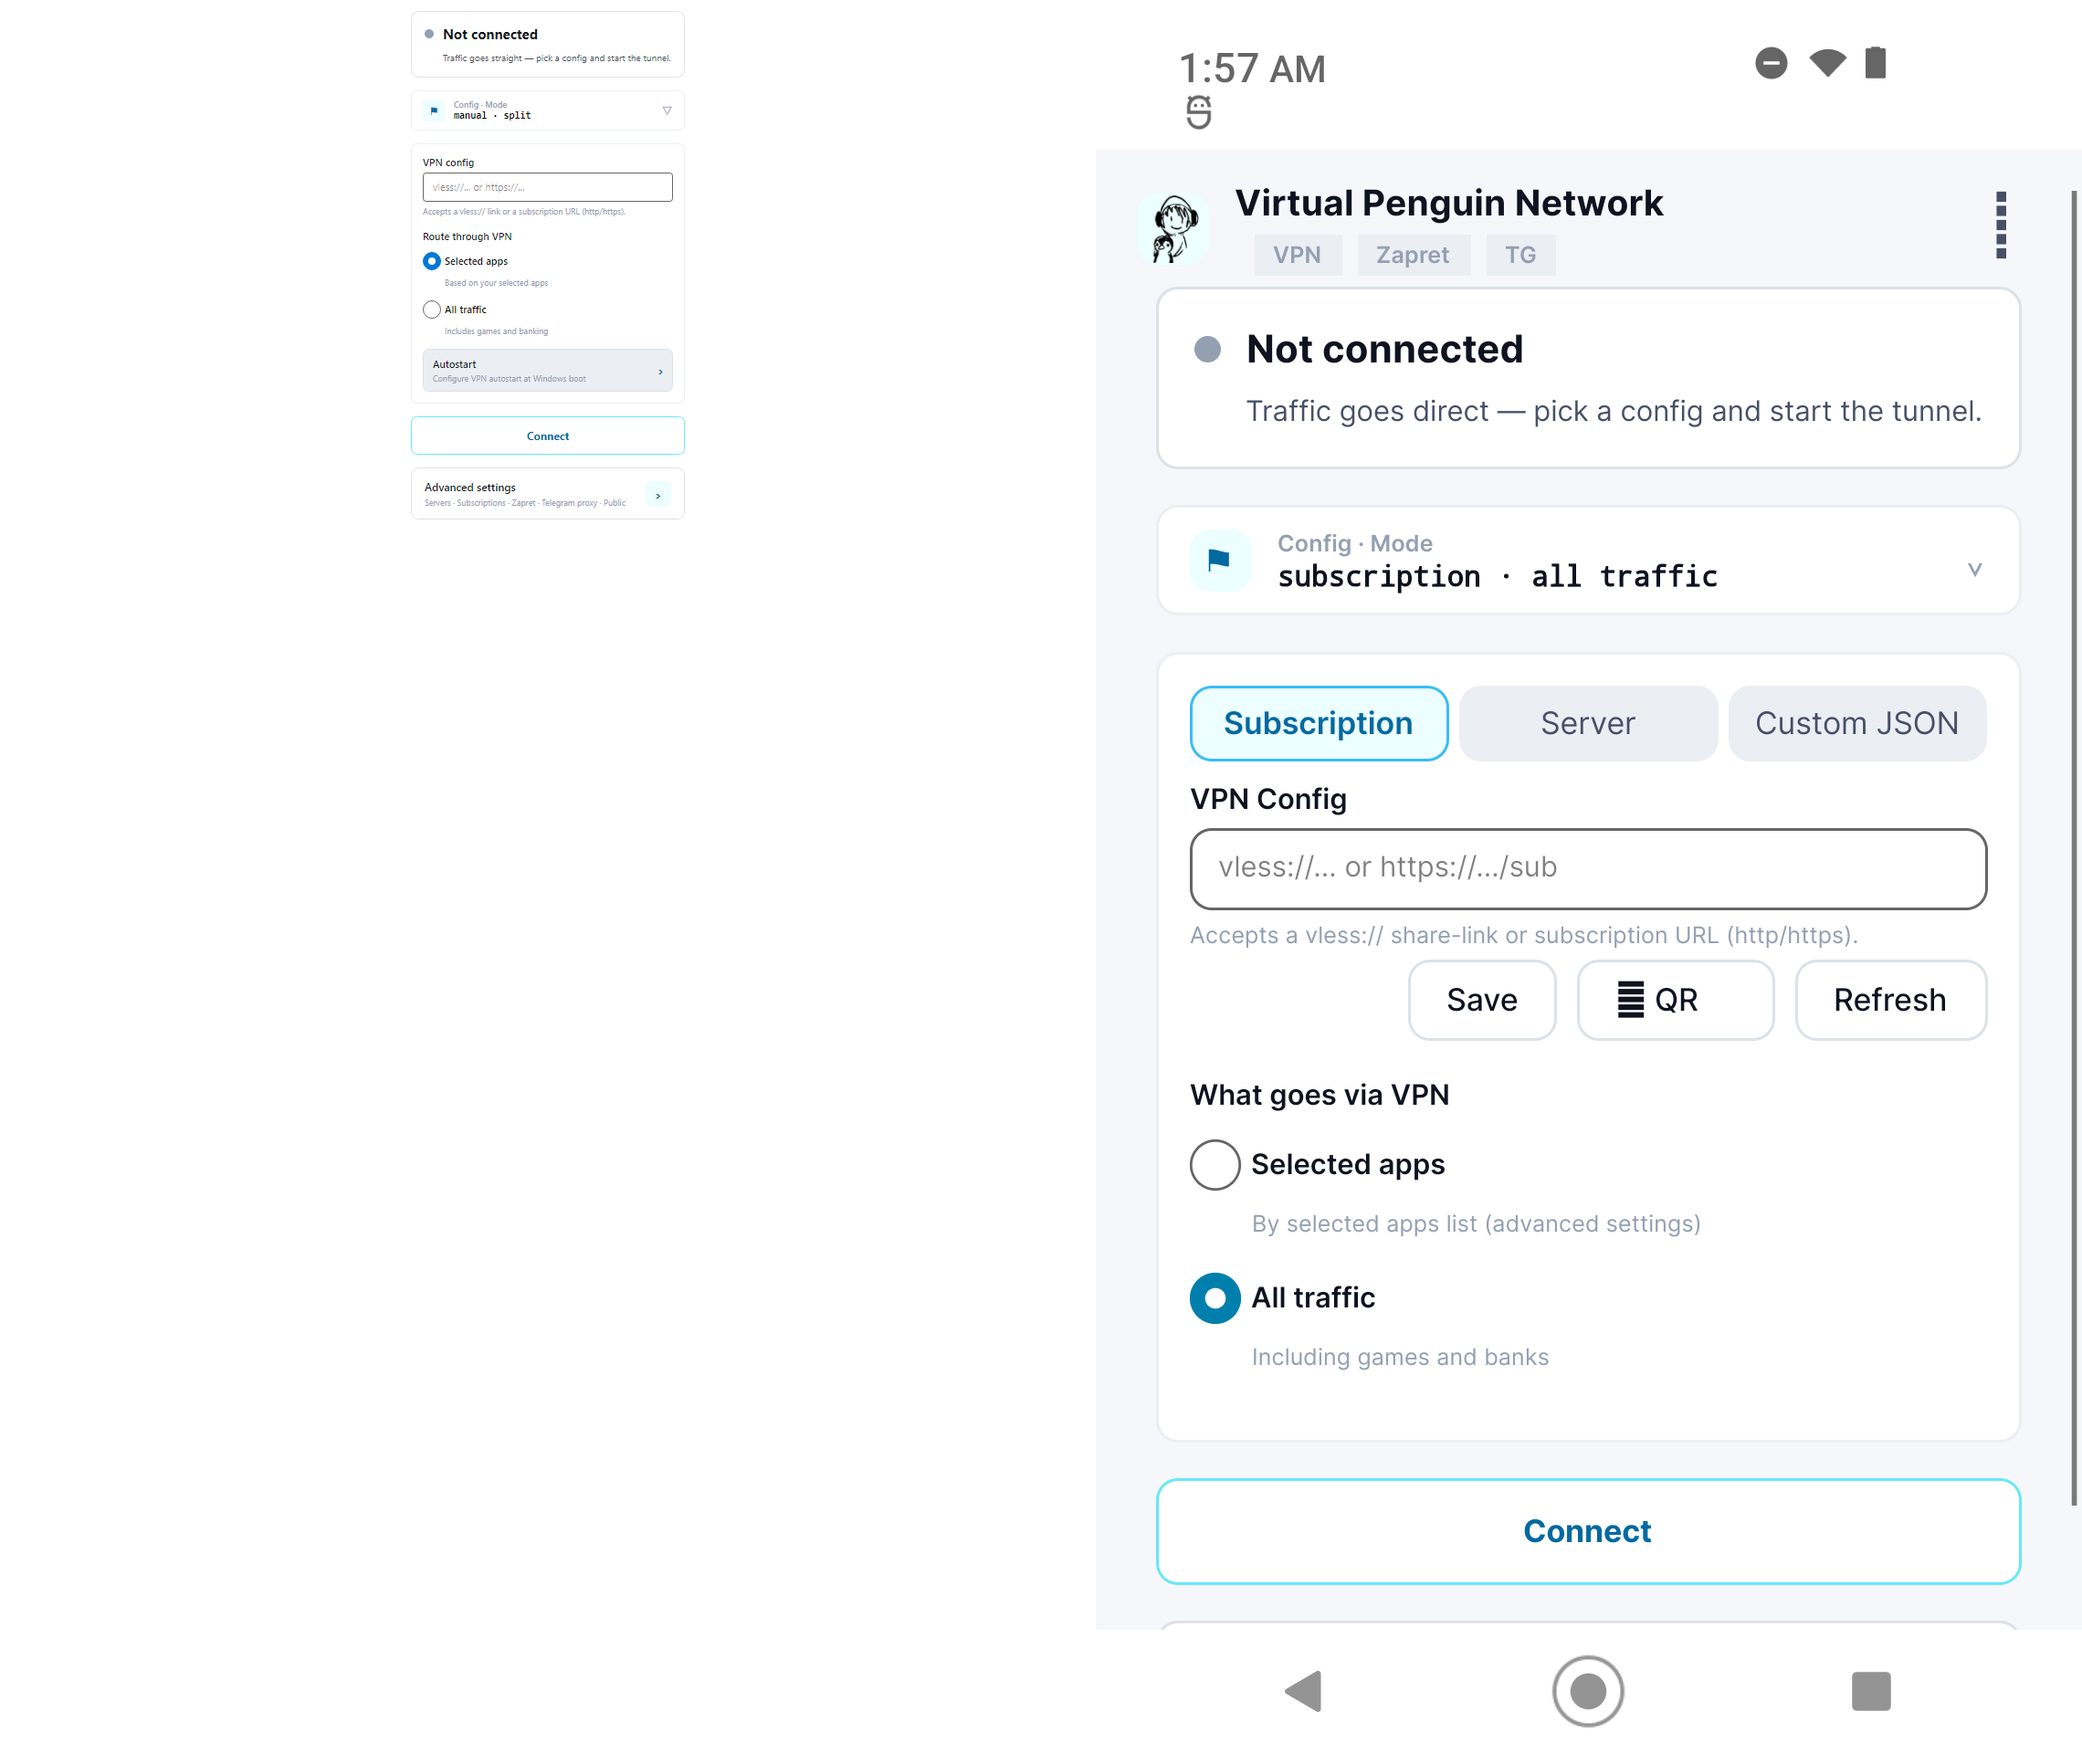
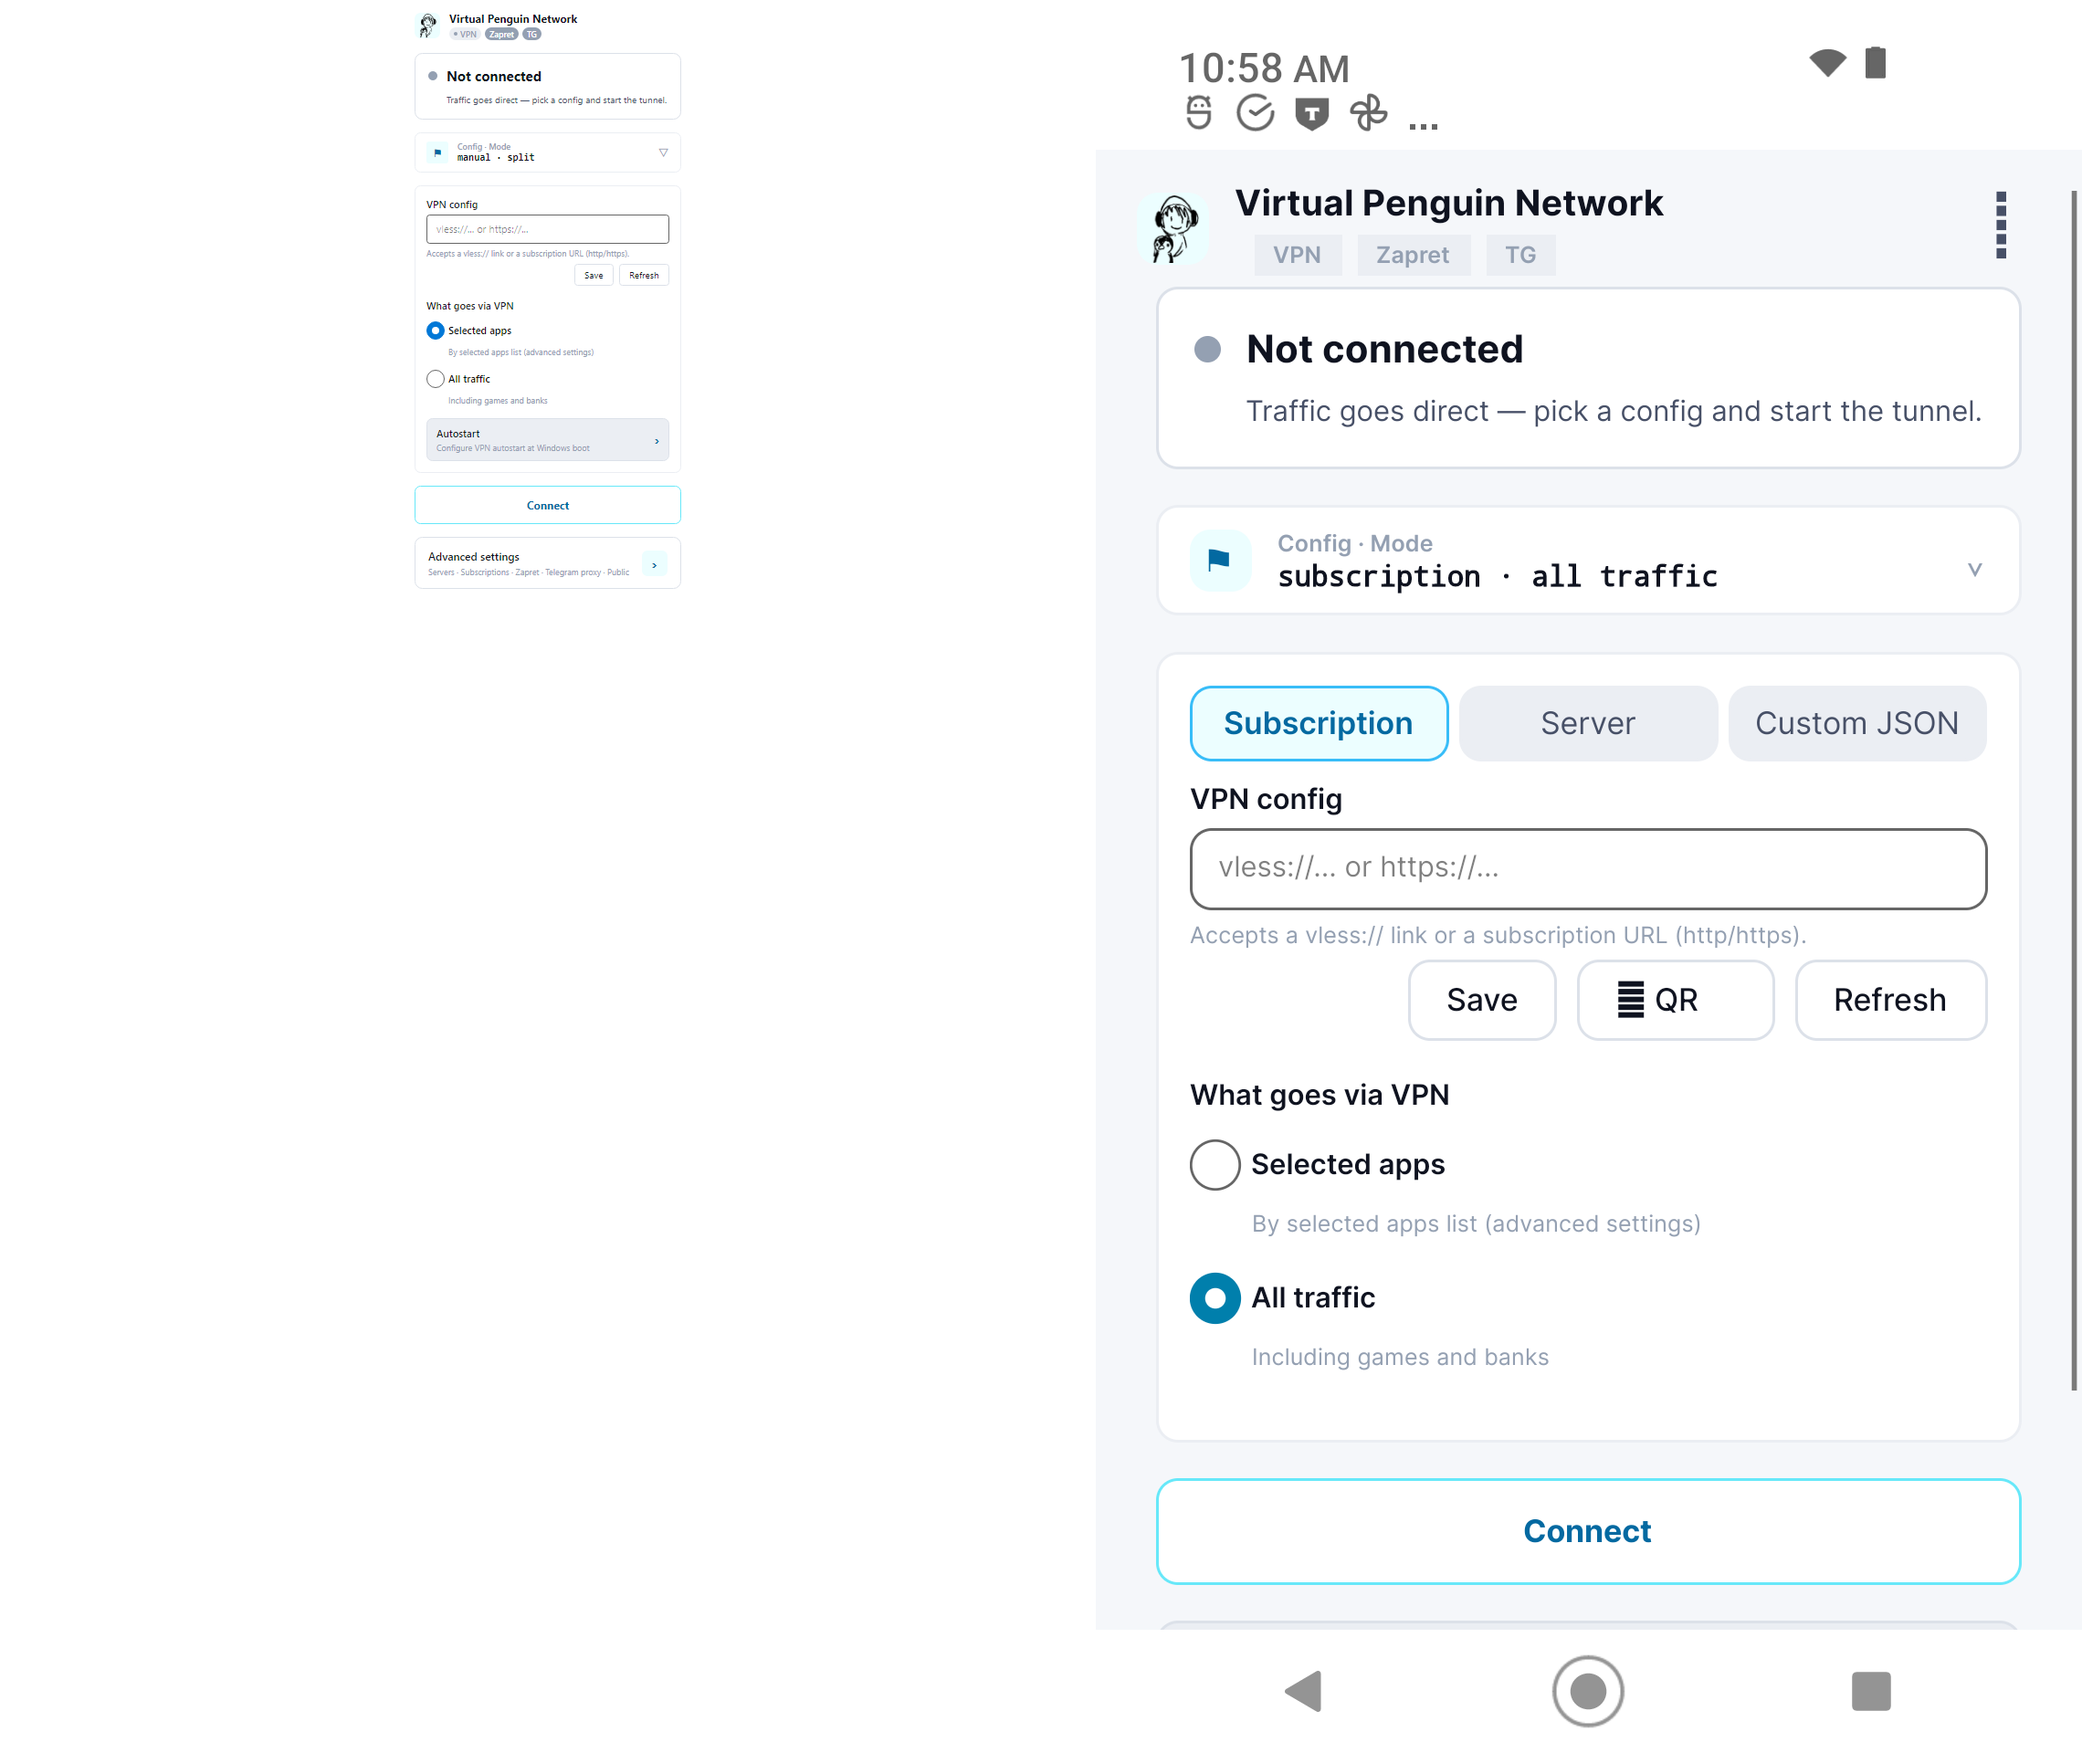
retest(parity): verify F-01 + F-02 convergence on phone + desktop
After merging F-01 (Phase H locale → Core) and F-02 (Simple parity 11/13),
re-rendered desktop snapshots via PageScreenshotTests, re-built Android APK
+ installed on KYOCERA A101BM, re-ran capture-android.sh (14 captures,
all OK size — no home-screen leakage), re-built side-by-side composites.

Verified convergence on Simple page:
- Brand row + mascot + VPN/Zapret/TG chips identical
- 'Traffic goes direct' status hint identical
- Default Config·Mode = subscription · all traffic on Android (desktop
  shows manual·split in test snapshot due to stale config.yaml; fresh
  install matches Android default)
- 'What goes via VPN' / 'By selected apps list (advanced settings)' /
  'Including games and banks' wording identical
- Save + Refresh action buttons present on both
- Autostart inline card on both
- Advanced settings card on both

Locale wrapper additions: SmpSaveButton, SmpRefreshButton,
SmpAutostartCardSubtitle now also in Core/Localization/Strings.cs and
re-exported via App + Android wrappers (compile-time errors found and
fixed during retest).

Composites updated: simple, subscribe, servers, network, applications,
tools, dpi-bypass, free-configs (8 of 9 pages — telegram skipped on
Android, has no equivalent overlay).

diff --git a/VPNRouter.Core/Localization/Strings.cs b/VPNRouter.Core/Localization/Strings.cs
@@ -262,6 +262,11 @@ public static class Strings
     public static string SmpAutostartCardOff => Ru
         ? $"Настроить автозапуск VPN при старте {OsDisplayName}"
         : $"Configure VPN autostart at {OsDisplayName} boot";
+    // Generic subtitle used on Android inline card (no Service-installed/stopped
+    // distinction yet — Android lifecycle differs from Windows Service).
+    public static string SmpAutostartCardSubtitle => Ru
+        ? $"Включить запуск VPN при старте {OsDisplayName}"
+        : $"Enable VPN at {OsDisplayName} boot";
 
     // ── Dialogs ──
     public static string FailedStartVpn => Ru ? "Не удалось запустить VPN:" : "Failed to start VPN:";
@@ -1225,6 +1230,8 @@ public static class Strings
         : "Installs VPNRouter as a Windows Service so the VPN comes up at boot, before you log in.";
     public static string SmpStartVpn => Ru ? "▶  Запустить VPN" : "▶  Start VPN";
     public static string SmpStopVpn => Ru ? "⏹  Остановить VPN" : "⏹  Stop VPN";
+    public static string SmpSaveButton    => Ru ? "Сохранить"    : "Save";
+    public static string SmpRefreshButton => Ru ? "Обновить"     : "Refresh";
     public static string SmpActiveThrough => Ru ? "Через:" : "Through:";
 
     // ── v2.18.0 compact Simple-mode redesign (Variant A · Calm) ──

diff --git a/VPNRouter.Android/Localization.cs b/VPNRouter.Android/Localization.cs
@@ -136,6 +136,7 @@ internal static class Localization
     public static string SmpAutostartCardTitle => global::VPNRouter.Core.Localization.Strings.SmpAutostartCardTitle;
     public static string SmpAutostartCardOn => global::VPNRouter.Core.Localization.Strings.SmpAutostartCardOn;
     public static string SmpAutostartCardOff => global::VPNRouter.Core.Localization.Strings.SmpAutostartCardOff;
+    public static string SmpAutostartCardSubtitle => global::VPNRouter.Core.Localization.Strings.SmpAutostartCardSubtitle;
     public static string FailedStartVpn => global::VPNRouter.Core.Localization.Strings.FailedStartVpn;
     public static string AddServerFirst => global::VPNRouter.Core.Localization.Strings.AddServerFirst;
     public static string SelectSingBoxConfig => global::VPNRouter.Core.Localization.Strings.SelectSingBoxConfig;

diff --git a/VPNRouter.App/Localization/Strings.cs b/VPNRouter.App/Localization/Strings.cs
@@ -37,6 +37,8 @@ public static class Strings
     public static string PasteVlessUri => global::VPNRouter.Core.Localization.Strings.PasteVlessUri;
     public static string StartVPN => global::VPNRouter.Core.Localization.Strings.StartVPN;
     public static string StopVPN => global::VPNRouter.Core.Localization.Strings.StopVPN;
+    public static string SmpSaveButton => global::VPNRouter.Core.Localization.Strings.SmpSaveButton;
+    public static string SmpRefreshButton => global::VPNRouter.Core.Localization.Strings.SmpRefreshButton;
     public static string AddServers => global::VPNRouter.Core.Localization.Strings.AddServers;
     public static string Remove => global::VPNRouter.Core.Localization.Strings.Remove;
     public static string AddConfig => global::VPNRouter.Core.Localization.Strings.AddConfig;

diff --git a/parity-audit/findings.md b/parity-audit/findings.md
@@ -1,6 +1,8 @@
 # VPNRouter — UI/UX parity audit findings
 
 **Date**: 2026-05-09 after v2.32.0 + AND-PROFILES merge.
+**Re-test**: 2026-05-09 after F-01 (Phase H locale → Core) + F-02 (Simple parity 11/13) merged.
+**Convergence**: verified visually via re-rendered composite/simple.png — desktop and Android now share brand row, status wording, default mode, app-list subtext, all-traffic subtext, autostart inline card, advanced settings card, action buttons (Save/Refresh).
 **Scope**: 9 desktop pages × Android equivalent overlays.
 **Methods used**: M1 (side-by-side), M6 (text content), M7 (locale keys),
 M8 (UI element catalog) — partial M2 (pixel diff), M9-M11 deferred.
